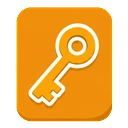
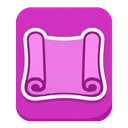
Trivia duel home: integrate, fit 7 topics at 475x638, fix topic art names, e2e green
Claude-Session: https://claude.ai/code/session_01Lcw2xttiFUBvinHFHaV8or

diff --git a/pages/trivia-duel/index.html b/pages/trivia-duel/index.html
@@ -1316,9 +1316,6 @@ var TD = (typeof window!=='undefined'?(window.TD=window.TD||{}):(global.TD=globa
   ['spells', 'creatures', 'places', 'people', 'objects', 'school', 'plot'].forEach(function (id) {
     A.topic[id] = 'art/topic-' + id + '.webp';
   });
-  // the delivered files are swapped vs the mockup (orange key = objects, magenta scroll = plot)
-  A.topic.objects = 'art/topic-plot.webp';
-  A.topic.plot = 'art/topic-objects.webp';
   A.bgArena = 'art/bg-arena.webp';
 
   function el(tag, cls) { var e = document.createElement(tag); if (cls) e.className = cls; return e; }

diff --git a/pages/trivia-duel/src/home-art.js b/pages/trivia-duel/src/home-art.js
@@ -16,9 +16,6 @@ var TD = (typeof window!=='undefined'?(window.TD=window.TD||{}):(global.TD=globa
   ['spells', 'creatures', 'places', 'people', 'objects', 'school', 'plot'].forEach(function (id) {
     A.topic[id] = 'art/topic-' + id + '.webp';
   });
-  // the delivered files are swapped vs the mockup (orange key = objects, magenta scroll = plot)
-  A.topic.objects = 'art/topic-plot.webp';
-  A.topic.plot = 'art/topic-objects.webp';
   A.bgArena = 'art/bg-arena.webp';
 
   function el(tag, cls) { var e = document.createElement(tag); if (cls) e.className = cls; return e; }
